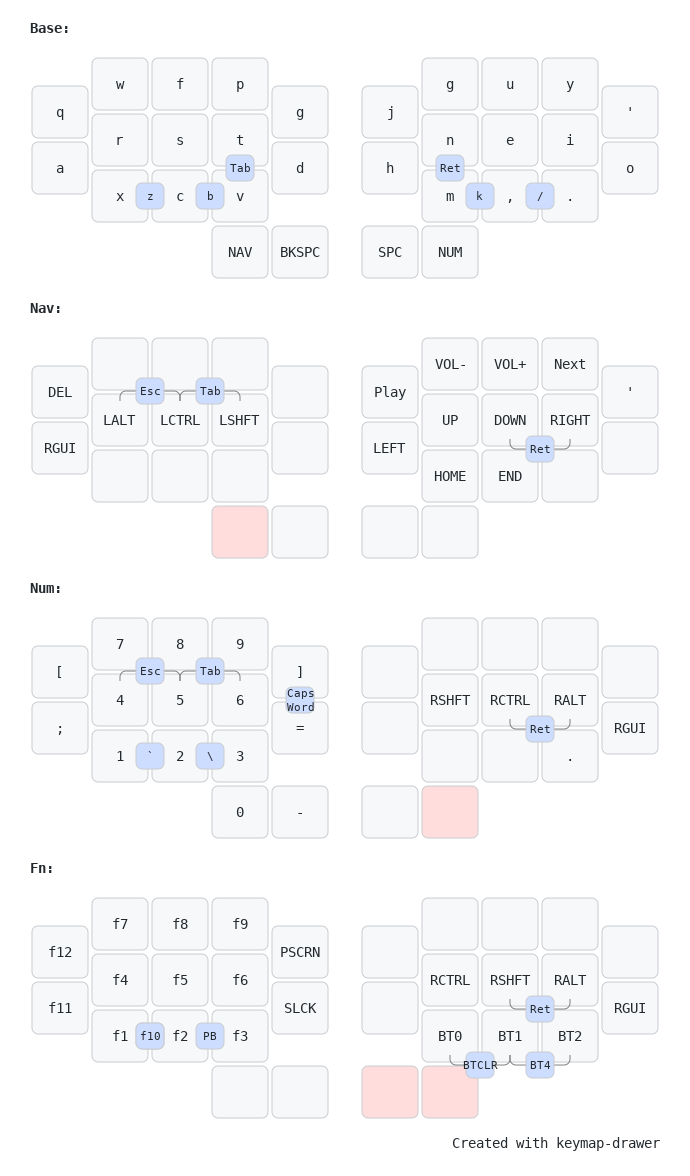
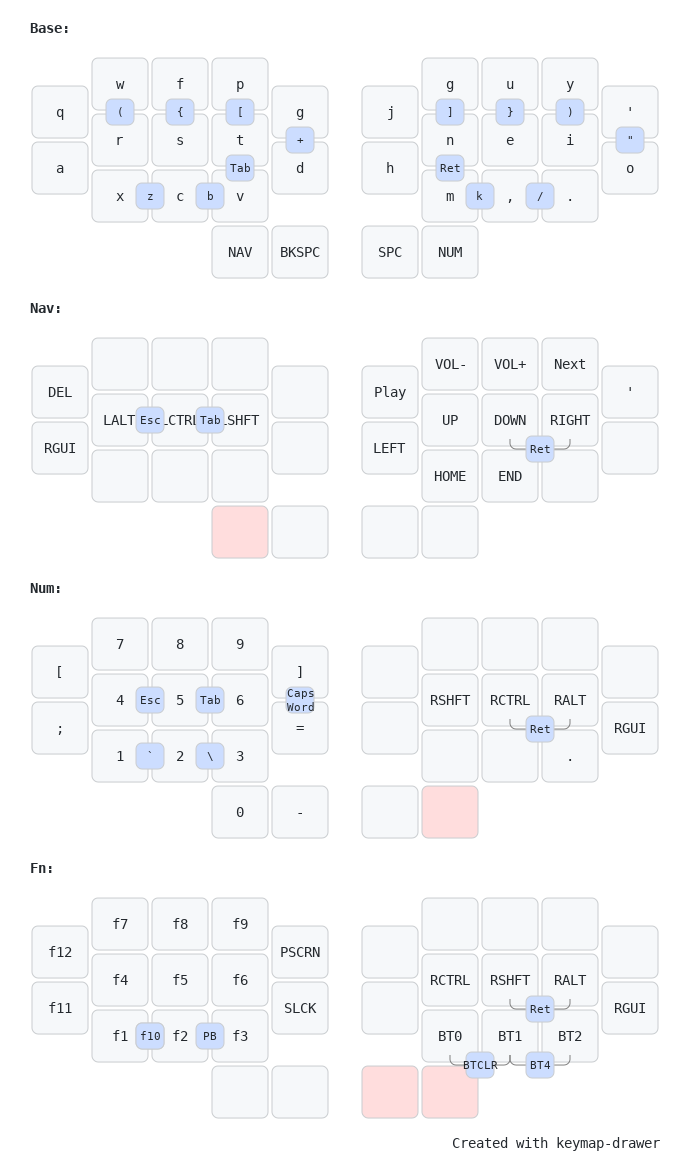
update some hummingbird combos

diff --git a/README.md b/README.md
@@ -1,0 +1,4 @@
+# Callum-esque Layouts
+An implementation of [callum style](https://github.com/callum-oakley/qmk_firmware/tree/master/users/callum) maps for 30-34 key boards.
+
+All images are created with [Keymap Drawer](https://keymap-drawer.streamlit.app)
